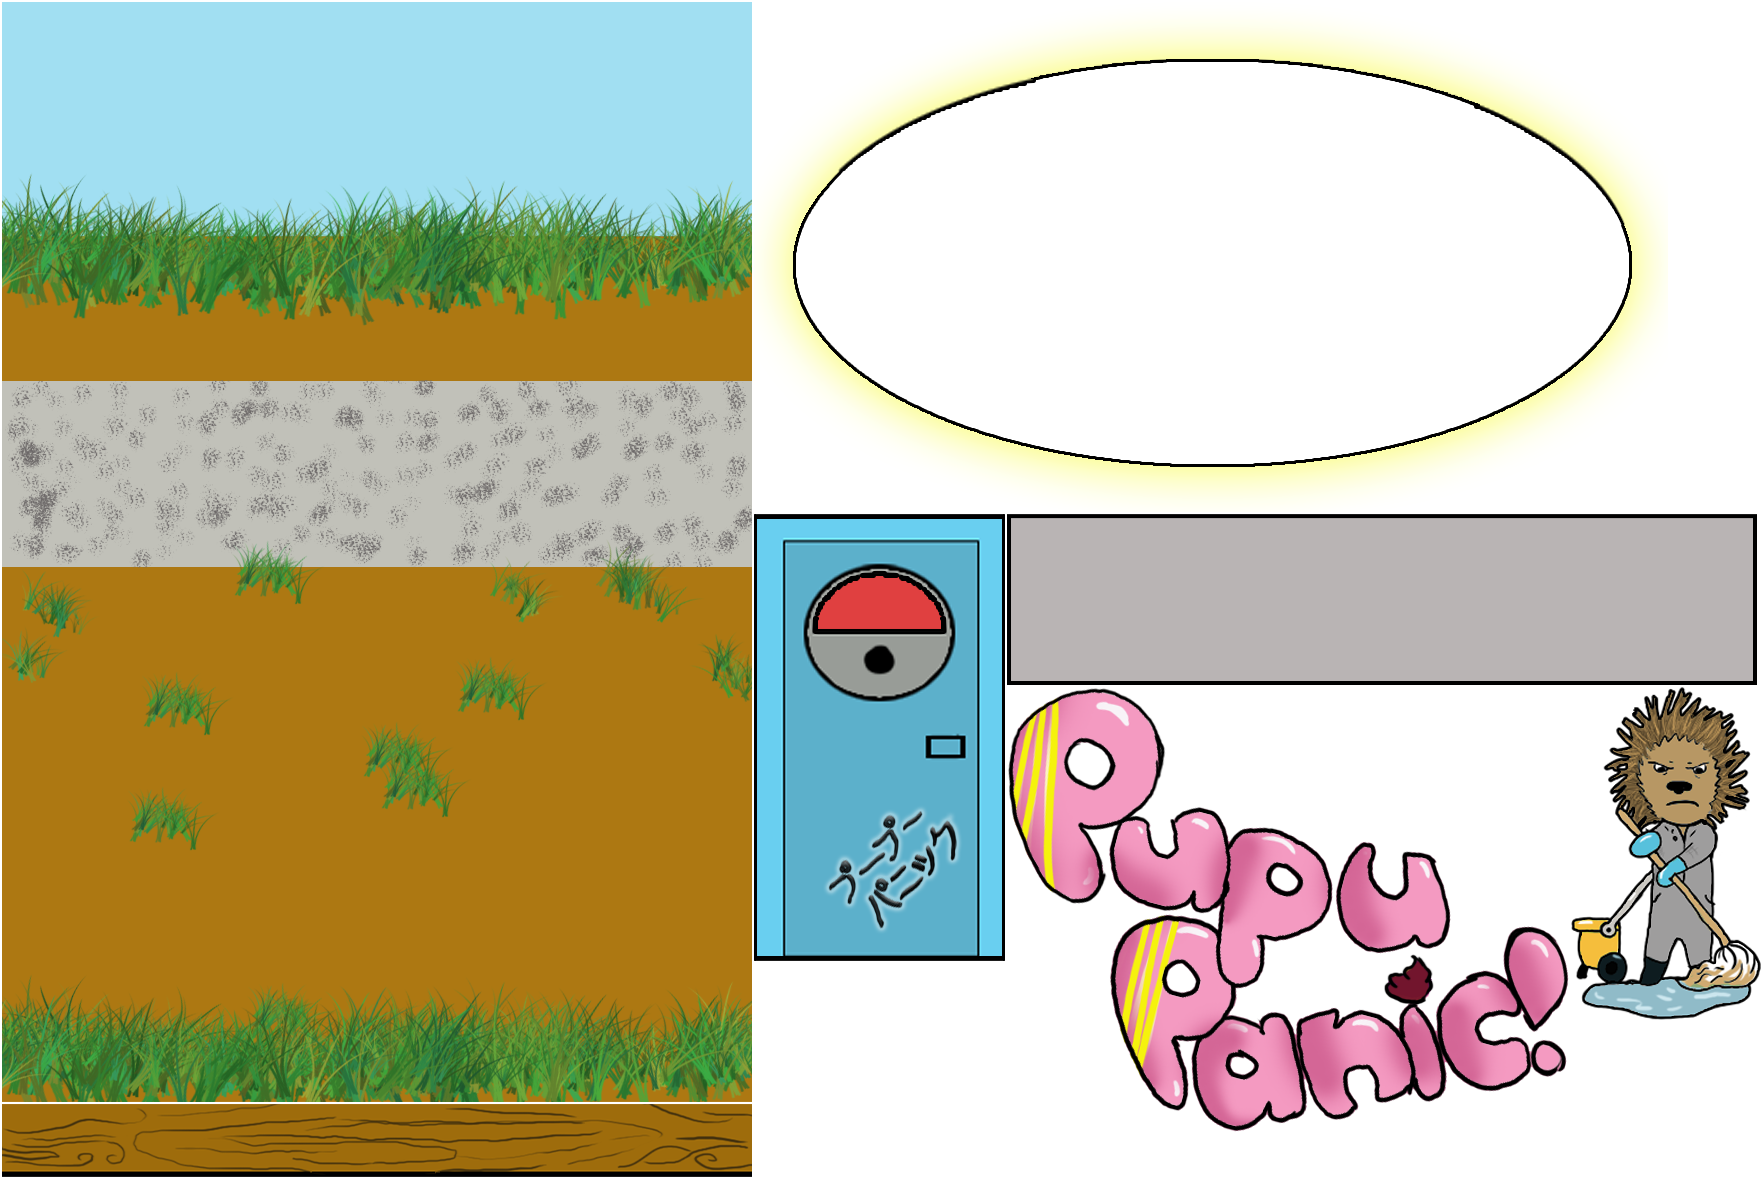
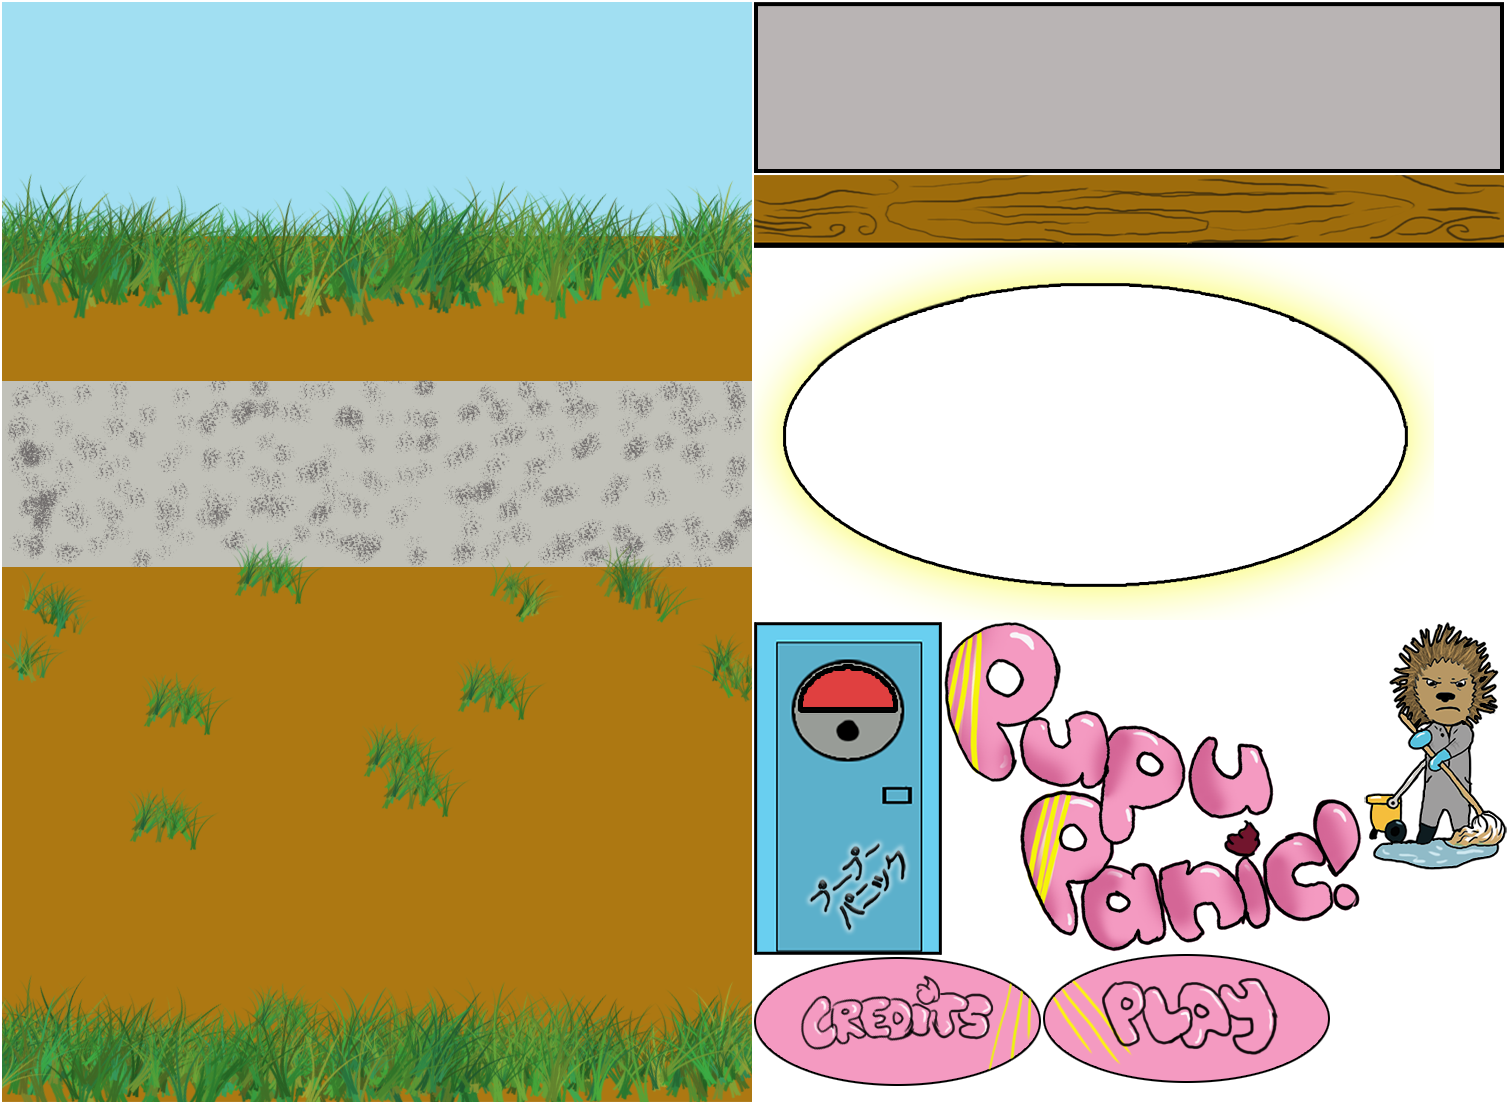
titlescreen updates

diff --git a/src/state/title.js b/src/state/title.js
@@ -9,52 +9,52 @@ var Title = {
     var titleCircle = game.add.sprite(game.width / 2, -400, "ExtraSprites", "Title_Circle_1.png");
     titleCircle.anchor.setTo(.5, .5);
     game.add.tween(titleCircle)
-    .to({y: 350}, 1500, Phaser.Easing.Bounce.Out)
+    .to({y: 250}, 1500, Phaser.Easing.Bounce.Out)
     .start();
 
-    var titlePotty = this.game.add.sprite(game.width / 2 + 300, -400, "ExtraSprites", "Title_Potty_1.png");
+    var titlePotty = this.game.add.sprite(game.width / 2 + 260, -400, "ExtraSprites", "Title_Potty_1.png");
     titlePotty.anchor.setTo(0.5, 0.5);
     game.add.tween(titlePotty)
-    .to({y: 400}, 1500, Phaser.Easing.Bounce.Out)
+    .to({y: 270}, 1500, Phaser.Easing.Bounce.Out)
     .delay(1000)
     .start();
 
     var titleText = this.game.add.sprite(game.width / 2, -400, "ExtraSprites", "Title_PupuPanic_1.png");
     titleText.anchor.setTo(0.5, 0.5);
     game.add.tween(titleText)
-    .to({y: 350}, 1500, Phaser.Easing.Bounce.Out)
+    .to({y: 230}, 1500, Phaser.Easing.Bounce.Out)
     .delay(500)
     .start();
 
-    var titleJanitor = this.game.add.sprite(game.width / 2 - 260, -400, "ExtraSprites", "Title_Janitor_1.png");
+    var titleJanitor = this.game.add.sprite(game.width / 2 - 250, -400, "ExtraSprites", "Title_Janitor_1.png");
     titleJanitor.anchor.setTo(0.5, 0.5);
     game.add.tween(titleJanitor)
-    .to({y: 470}, 1500, Phaser.Easing.Bounce.Out)
+    .to({y: 370}, 1500, Phaser.Easing.Bounce.Out)
     .delay(1500)
     .start();
 
 
-    var playButton = this.game.add.sprite(game.width / 2, game.height / 2 + 120, "Sprites", "Food_CarrotBun_Good_1.png");
-    playButton.alpha = 0;
+    var playButton = this.game.add.sprite(game.width / 2, game.height / 2 + 120, "ExtraSprites", "Title_Button_Play_1.png");
+    playButton.scale.setTo(0);
     playButton.anchor.setTo(0.5, 0.5);
     playButton.inputEnabled = true;
     playButton.events.onInputDown.add(function() {
       game.state.start("LevelSelect");
     });
-    game.add.tween(playButton)
-    .to({alpha: 1}, 500, Phaser.Easing.Quadratic.InOut)
+    game.add.tween(playButton.scale)
+    .to({x: 1, y: 1}, 500, Phaser.Easing.Elastic.Out)
     .delay(2000)
     .start();
     
-    var creditsButton = this.game.add.sprite(game.width / 2, game.height / 2 + 240, "Sprites", "Food_CornBurger_Good_1.png");
-    creditsButton.alpha = 0;
+    var creditsButton = this.game.add.sprite(game.width / 2, game.height / 2 + 280, "ExtraSprites", "Title_Button_Credits_1.png");
+    creditsButton.scale.setTo(0);
     creditsButton.anchor.setTo(0.5, 0.5);
     creditsButton.inputEnabled = true;
     creditsButton.events.onInputDown.add(function() {
       game.state.start("Credits");
     });
-    game.add.tween(creditsButton)
-    .to({alpha: 1}, 500, Phaser.Easing.Quadratic.InOut)
+    game.add.tween(creditsButton.scale)
+    .to({x: 1, y: 1}, 500, Phaser.Easing.Elastic.Out)
     .delay(2250)
     .start();
   },
